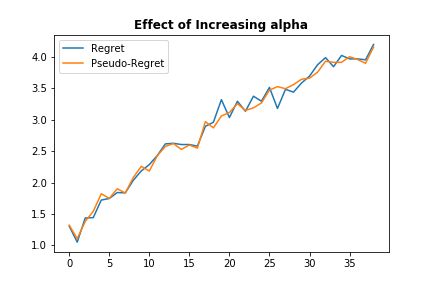
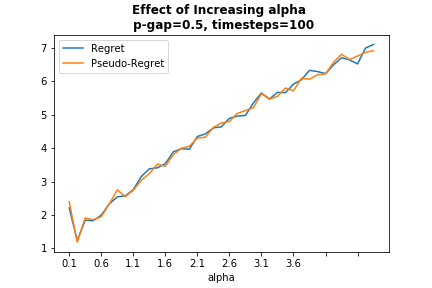
Final Commit for project Deadline
-Various Changes

diff --git a/experiments_stochastic_bandits.py b/experiments_stochastic_bandits.py
@@ -31,13 +31,13 @@ def plot_list(l, title="", xlabel="", ylabel="", labels="",
     plt.xlabel(xlabel)
     plt.ylabel(ylabel)
     plt.legend(labels=labels)
-    #plt.xticks(np.arange(0,len(l[0]), step=int(len(l[0])/len(axis_data))),
-    #           labels=axis_data)
+    plt.xticks(np.arange(0,len(l[0]), step=int(len(l[0])/len(axis_data))),
+               labels=axis_data)
 
 
 #Experiments
 #number of reps
-reps = 200
+reps = 300
 
 ###Two arm bandit
 
@@ -96,21 +96,34 @@ def increase_T(max_T, env, reps=reps, step=1, theory_bound=False):
 regret, pseudo_regret = increase_T(100, env1, step=1)
         
 plot_list(increase_T(max_T = 100, env=env1, step=1), 
-          title="(Pseudo-) Regret per Timestep for increasing \n Number of Rounds",
-          ylabel="Values",
+          title="(Pseudo-) Regret per Timestep for increasing \n Number of Rounds, p-gap=0.5, alpha="+str(env1.forecaster.alpha),
+          ylabel="Values per Timestep",
           xlabel="Timesteps",
           labels=["Regret", "Pseudo-Regret"],
           axis_data = np.arange(0, 100, step=20))
 
 plt.savefig(folder+"Increase_t_2class.png")
 
-#80 runs seem to be sufficient for convergence
+#100 runs seem to be sufficient for convergence
+#Now include the theoretic bound
+env1.forecaster.set_alpha(0.1)
 
+increase_T_theory_bound = increase_T(max_T = 100, env=env1, step=1, theory_bound=True)
+
+#[np.log(np.array(list)) for list in increase_T_theory_bound]
+plot_list([list[0:len(list)] for list in increase_T_theory_bound], 
+          title="Theoretic bound and (Pseudo-) Regret per Timestep \n for increasing T, p-gap=0.5, alpha="+str(env1.forecaster.alpha),
+          ylabel="Values per Timestep",
+          xlabel="Timesteps",
+          labels=["Regret", "Pseudo-Regret", "Theoretical bound"],
+          axis_data = np.arange(0, 100, step=20))
+
+plt.savefig(folder+"Increase_t_2class_theory_bound_alpha_0.1.png")
 
 
 #Many runs effect of alpha
 def increase_alpha(min_alpha, max_alpha,
-                   step_size, env, T=40, reps=reps):
+                   step_size, env, T=100, reps=reps):
     steps = int((max_alpha-min_alpha)/step_size)
     alpha = min_alpha
     log_alpha = np.zeros(steps)
@@ -129,16 +142,17 @@ alpha_incr_2class = increase_alpha(min_alpha=0.1, max_alpha=4,
                                    step_size=0.1, env=env1)
 
 plot_list(alpha_incr_2class[0:2],
-          title="Effect of Increasing alpha",
+          title="Effect of Increasing alpha \n p-gap=0.5, timesteps=100",
           labels=["Regret", "Pseudo-Regret"],
           axis_data=np.arange(0.1,
                               4.0,
-                              step=0.5))
+                              step=0.5),
+          xlabel="alpha")
 plt.savefig(folder+"Increase_alpha_2class.png")
 #0.5 seems to be a good alpha value
 
 #Many runs effect of p-gap
-def increase_p_gap(step_size, env, T=40, reps=reps):
+def increase_p_gap(step_size, env, T=100, reps=reps):
     steps = int(1/step_size)
     regret = np.zeros(steps)
     pseudo_regret = np.zeros(steps)
@@ -158,45 +172,114 @@ def increase_p_gap(step_size, env, T=40, reps=reps):
         gap[step] = p_optimal-p_suboptimal
     return(regret, pseudo_regret, gap)
     
+env1.forecaster.set_alpha(alpha=1)
+    
 incr_pgap_2class = increase_p_gap(0.01, env1)
     
 plot_list(incr_pgap_2class[0:2],
-          title="Effect of increasing p-gap",
+          title="Effect of increasing p-gap \n timesteps=100, alpha="+str(env1.forecaster.alpha) + ", repetetions="+str(reps),
           labels=["Regret", "Pseudo-Regret"],
-          axis_data=np.arange(0.01, 1, step=0.5))
+          axis_data=np.arange(0.01, 1, step=0.5),
+          xlabel="p-gap")
 plt.savefig(folder+"Increase_p_gap_2class.png")
 
 
 
 #Experiments Vaccine Example
-arms_vaccines = [bernoulli(0.99), bernoulli(0.9945), bernoulli(0.995)]
+arms_vaccines = [bernoulli(0.97), bernoulli(0.994), bernoulli(0.995)]
 bandit_vac = stochastic_bandit(arms=arms_vaccines, 
-                               expected_values=[0.99, 0.9945, 0.995])
+                               expected_values=[0.97, 0.994, 0.995])
 env_vac = env(bandit_vac, ucb_forecaster(alpha=2.1)) 
 
 #env_vac.play_many_rounds(rounds=100000, repetitions=100, log_pseudo_regret=True)
 
-#env_vac.play_round(5700000)
-#Regret: 2629
-#Pseudo-Regret: 2730.454
+tb = env_vac.forecaster.return_theoretic_bound(expected_values=[0.97, 0.994, 0.995],
+                                               n=10000000)
+
+env_vac.play_many_rounds(10000000, repetitions=3, log_pseudo_regret=True)
+#Regret: 3286.666
+#Pseudo-Regret: 3252.047
+#Theoretic bound: 70445.841
+
+
+#Alpha=0.1
+env_vac.forecaster.set_alpha(0.1)
+env_vac.play_many_rounds(10000000, repetitions=3, log_pseudo_regret=True)
+#Regret: 495.666
+#Pseudo-regret: 577.151
+
 
 #Test Against random forecaster
 env_vac_rand = env(bandit_vac, random_forecaster())
-#env_vac_rand.play_round(5700000)
-#Regret: 10260
-#Pseudo_regret: 10449.534
+env_vac_rand.play_many_rounds(10000000, repetitions=3, log_pseudo_regret=True)
+#Regret: 86521.666
+#Pseudo_regret: 86634.758
+
 
 #Increase T:
-incr_T_vac = increase_T(100000, env_vac, reps=30, step=5000, theory_bound=True)
+#Alpha = 2.1
+incr_T_vac_21 = increase_T(100000, env_vac, reps=30, step=2500, theory_bound=True)
 
 
-plot_list(incr_T_vac,
-          title="Development of theoretical bound over time steps \n in Comparison with real (Pseudo-) Regret",
+plot_list(incr_T_vac_21,
+          title="Theoretical bound over time steps in Comparison \n with real (Pseudo-) Regret, repetitions=30, alpha=" + str(env_vac.forecaster.alpha),
           labels=["Regret", "Pseudo-Regret", "Theoretical Bound"],
           axis_data=np.arange(0, 100000, step=20000),
-          xlabel="Environment Steps",
+          xlabel="Environment steps",
           ylabel="(Pseudo-) Regret per time-step")
 
-#plt.savefig(folder+"Increase_T_Vaccinations_bound.png")
+plt.savefig(folder+"Increase_T_Vaccinations_bound_alpha_2.1.png")
+
+
+#alpha = 0.1
+env_vac.forecaster.set_alpha(0.1)
+incr_T_vac_01 = increase_T(100000, env_vac, reps=30, step=2500, theory_bound=True)
+
+plot_list(incr_T_vac_01,
+          title="Theoretical bound over time steps in Comparison \n with real (Pseudo-) Regret, repetitions=30, alpha=" + str(env_vac.forecaster.alpha),
+          labels=["Regret", "Pseudo-Regret", "Theoretical Bound"],
+          axis_data=np.arange(0, 100000, step=20000),
+          xlabel="Environment steps",
+          ylabel="(Pseudo-) Regret per time-step")
+
+plt.savefig(folder+"Increase_T_Vaccinations_bound_alpha_0.1.png")
+
+#alpha=1
+env_vac.forecaster.set_alpha(1.0)
+incr_T_vac_01 = increase_T(100000, env_vac, reps=30, step=2500, theory_bound=True)
+
+plot_list(incr_T_vac_01,
+          title="Theoretical bound over time steps in Comparison \n with real (Pseudo-) Regret, repetitions=30, alpha=" + str(env_vac.forecaster.alpha),
+          labels=["Regret", "Pseudo-Regret", "Theoretical Bound"],
+          axis_data=np.arange(0, 100000, step=20000),
+          xlabel="Environment steps",
+          ylabel="(Pseudo-) Regret per time-step")
+
+plt.savefig(folder+"Increase_T_Vaccinations_bound_alpha_1.png")
+
+
+#Increase_alpha Vaccines
+alpha_incr_vac = increase_alpha(min_alpha=0.1, max_alpha=4,
+                                   step_size=0.1, env=env_vac, T=10)
+
+
+plot_list(alpha_incr_vac[0:2],
+          title="Effect of Increasing alpha \n timesteps=10K, repetitions=30",
+          labels=["Regret", "Pseudo-Regret"],
+          axis_data=np.arange(0.1,
+                              4.0,
+                              step=0.5),
+          xlabel="alpha")
+          
+plt.savefig(folder+"Increase_alpha_vac.png")
+
+
+
+
+
+
+
+
+
 
 

diff --git a/stochastic_bandit.py b/stochastic_bandit.py
@@ -123,6 +123,9 @@ class bernoulli():
 #Random forecaster
 class random_forecaster():
     
+    def new_round(self, K):
+        None
+    
     def reset_rounds(self, rounds, K, repetitions):
         None
     
@@ -205,5 +208,4 @@ class ucb_forecaster():
         return(bound)
         
     
-
         
